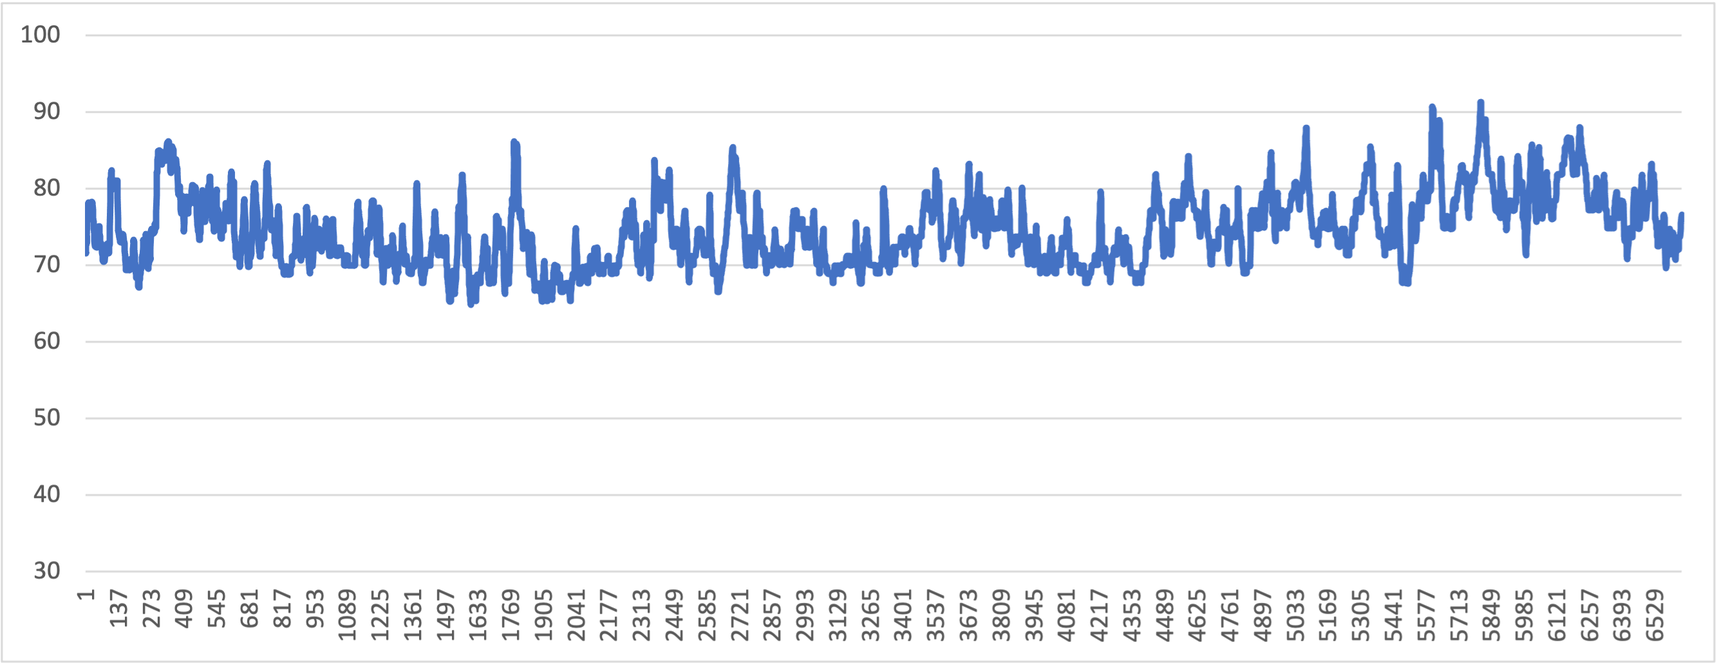
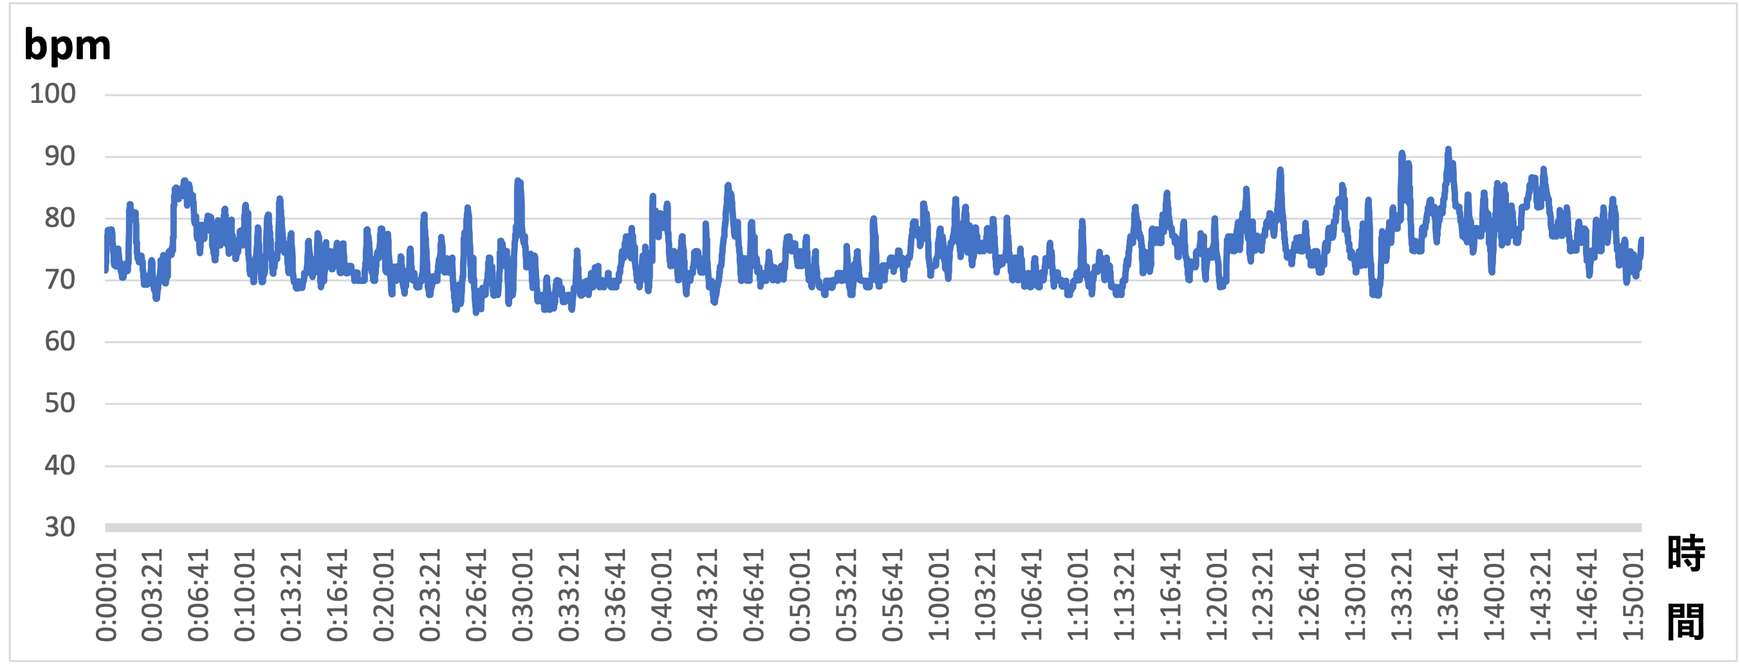
ukai0127

diff --git a/chap3.tex b/chap3.tex
@@ -1,25 +1,80 @@
-\chapter{コンテンツ視聴時に生体データを取得しコンテンツへ重畳提示}
+\chapter{生体データを用いたコンテンツへの重畳提示システム}
 
 \thispagestyle{myheadings}
 
-\section{提案手法}
+　本章では生体データを使いコンテンツに重畳提示する手法について述べる．
+図に研究の全体像を示す.システムの流れは，コンテンツを視聴しているときの生体データを取得する．
+生体データはコンテンツ毎に収集する．集めた生体データから盛り上がっている箇所を推定し抜き出す．
+抜き出したデータを基にコンテンツに重畳提示するといった構成である．
 
-\subsection{システム構成}
-図1に研究の全体像を示す.システムの流れはコンテンツを視聴しているときの生体データを取得し,サーバにアップロードする。生体データはコンテンツ毎に収集する.集めた生体データから盛り上がっている箇所を推定し,抜き出す.抜き出したデータを基にコンテンツに重畳表示するといった構成である.
 \begin{figure}[H]
     \centering
-    \includegraphics[width=10cm]{images/chapter3/zenntaizu.png}
+    \includegraphics[width=15cm]{images/chapter3/allsysytem.png}
     \caption{システム全体図}
 \end{figure}
-生体データとして目の動きに注目したり,額から出る汗の量でコンテンツ視聴時の興奮度を測る方法などが考えられる.収集する生体データによってコンテンツに対し盛り上がり方を色々な目線で計測が可能である.コンテンツへの重畳方法も音を追加して迫力を増したり,画面にエフェクトを表示や振動させたりなどさまざまである,生体データ,重畳方法ともに多岐に渡り用途を決めるのが可能である.
 
-\subsection{本研究のシステム構成}
-本研究で採用したシステムについて述べる.本研究では生体データの収集方法としてスマートウォッチを採用した.理由として近年スマートウォッチは普及しており,誰でも気軽に生体データを取得できるからである.今回スマートウォッチはTicWatchE3を利用した図.生体データとして心拍数を計測する.スマートウォッチを使い気軽に計測ができるためである.スマートウォッチで心拍数を計測するためAndroidStudioで心拍数が収集できるアプリを作成した.コンテンツは映画を視聴するようにした.コロナ禍により自宅で映画を見る機会が増えたためである.また,映画は盛り上がるポイントが明確に出てくると予想したからである.映画にはエフェクトを重畳する.映画画面に直接エフェクトを表示しで迫力や恐怖などを体験できると考えたからである.本研究の流れは映画を見ている時の心拍数をスマートウォッチを使って計測し,取得したデータを心拍数が上昇している箇所のみのデータにする.そのデータを基に映画画面にエフェクトを重畳するという流れになっている.
+　コンテンツ視聴時に生体データを取得する理由として，生体データを用いればそのコンテンツに対し視聴者が興奮している箇所を推定可能だからである．
+本研究ではコンテンツの盛り上がっている箇所を複数人で共有するため，コンテンツのどの箇所で視聴者が盛り上がっていたのかを生体データを使って推定する．
+コンテンツにエフェクトを重畳する目的として生体データを基にコンテンツにエフェクトを重畳することにより，
+より盛り上がるコンテンツを楽しむことが可能になるからである．そのため本研究ではコンテンツ視聴時の生体データを取得し，
+コンテンツにエフェクトを重畳するシステムにした．
+　コンテンツを視聴している時の生体データについて述べる．
+収集する生体データとして目の動きに注目したり，額から出る汗の量でコンテンツ視聴時の興奮度を測る方法などが考えられる．
+収集する生体データによってコンテンツに対し盛り上がり方を色々な目線で計測するのが可能である．
+さまざまな方法で生体データを収集するのができるため，視聴するコンテンツによって適した生体データを取得する．
+コンテンツにはYouTubeやNetflixなどのデジタルコンテンツと本や新聞紙などのアナログコンテンツがある．
+本研究のシステムではYouTubeなどを視聴している時の生体データの収集だけでなく，新聞紙や本を読んでいる時も盛り上がりポイントを計測するのが可能である．
+例として新聞紙を読んでいる時，生体データとして額から出る汗や目の動きなどでは正確に盛り上がるポイントを見つけ出せない．
+新聞紙を読んでいる時は心拍数を使い，面白いと感じる記事を読んでいるときの心拍数を計測するなどコンテンツに合わせた生体データを取得する．
+またTwitterやInstagram，Facebook，TiktokなどのSNSコンテンツを視聴している時にも使用できる．
+　コンテンツへの重畳手法について述べる．コンテンツへの重畳手法としては音を追加したり，画面にエフェクトを表示させる，
+デバイスを振動させるなどさまざまである．映画館のような3Dや4DXは映画館の中の決められた映画のみだが，
+本研究は生体データを収集すれば自宅でも好きなコンテンツに対し映像体験が可能になる．例として本を読んでいる時の重畳手法は，
+徐々に部屋を暗くしたり雑音をはじめの方は流していて盛り上がるポイントが来たら無音にするなど集中しやすい環境に近づけていく．
+その他にも音楽を聴いているときはサビにかけてボリュームを上げビートに合わせてデバイスを振動させライブ会場のようなワクワクが体験できたり，
+スマートフォンで車のレースゲームをしている時には風を送りゲームに没入感を加える．
+
+\section{本研究のシステム構成}
+　本研究で採用したシステムについて述べる．本研究では生体データの収集方法としてスマートウォッチを採用した．
+理由として近年スマートウォッチは普及しており，誰でも気軽に生体データを取得できるからである図．今回スマートウォッチはTicWatchE3を使用した[図]．
+コンテンツは映画を視聴することにした．コロナ禍により自宅で映画を視聴する機会が増えたためである．
+また，映画は盛り上がるポイントが明確に出てくると予想したからである．スマートウォッチを使い映画を視聴している時の生体データとして，心拍数を計測する．
+心拍数を計測する理由として，スマートウォッチを使い気軽に計測ができるためである．
+また映画を視聴している時は心拍数が頻繁に変化し生体データとして適していると考えたからである．
+収集した心拍データは生体データを管理するサーバにアップロードされる．映画には画面に直接エフェクトを重畳する．
+映画画面に直接枠を囲うようなエフェクトを表示することで迫力や恐怖などを体験できると考えたからである．
+本研究の流れは映画を見ている時の心拍数をスマートウォッチを使って計測し，取得した心拍データをスマートウォッチからサーバにアップロード，
+アップロードされた心拍データから心拍数が上昇している箇所のみのデータにする．
+その心拍上昇箇所のみの心拍データを基に映画画面に直接画面を囲うようなエフェクトを重畳するという流れになっている．
+映画を視聴する時にスマートウォッチを腕に取り付け，スマートウォッチを使い心拍数を計測する．
+取得した心拍データはサーバにアップロードされ，心拍数が上昇している箇所だけのデータに抽出処理が行われる．
+映画毎に複数人のデータが一つのエフェクト表示に適したデータへと変換される．そのデータを基に映画画面に直接エフェクトが表示されるシステムである．
+
 \begin{figure}[H]
     \centering
-    \includegraphics[width=10cm]{images/chapter3/tokei.jpg}
+    \includegraphics[width=10cm]{images/chapter3/watch.jpg}
     \caption{利用したスマートウォッチ,TicWatchE3}
 \end{figure}
+
+\begin{figure}[H]
+    \centering
+    \includegraphics[width=10cm]{images/chapter3/watchreserch.png}
+    \caption{スマートウォッチの普及率}
+\end{figure}
+
+\section{心拍データについて}
+
+　本節ではシステムを構成する機能のうち，スマートウォッチを使い心拍データを取得する方法，
+収集した心拍データから心拍数が上昇している箇所の抽出方法について述べる．
+
+\subsection{心拍データの収集方法}
+
+　スマートウォッチを使い心拍数を計測する方法を述べる．本研究では映画を視聴している時の心拍数を計測するため，
+AndroidStudioで心拍数が取得できるアプリを作成した。アプリ画面を図に示す．
+センサ取得ボタンを押すことによって腕につけた時の心拍数を心拍という文字の下に表示できる．
+csv file nameに保存したいファイル名を記入し記録開始ボタンを押すことで心拍数の記録が始まる．
+心拍数を取得中の画面を図に示す．心拍数の計測が終了したらCSV出力のボタンを押し計測を終了する．
+取得した心拍データはCSVファイルとなり生体データを管理するサーバへとアップロードされる．
 
 \begin{figure}[H]
     \centering
@@ -27,25 +82,57 @@
     \caption{心拍数取得画面}
 \end{figure}
 
-\section{心拍データの分析と心拍上昇箇所の抽出処理}
-収集した心拍数のデータを分析した.実際に集めたデータをグラフにしたものを表示する.映画は「キングコング」を視聴した人のデータである.集めたデータを観察したところ,人により心拍数の変動が様々であった.図のように常に心拍数が上昇と下降を繰り返している人や,盛り上がりを見せるシーンでは心拍数が大幅に上昇し,それ以外は上昇と下降を繰り返している人,また盛り上がりを見せるシーンのみ心拍数が上昇しそれ以外は比較的落ち着いている人などがいた.
 \begin{figure}[H]
     \centering
-    \includegraphics[width=10cm]{images/chapter3/gurafu1.png}
+    \includegraphics[width=10cm]{images/chapter3/csv.png}
+    \caption{心拍数取得中画面}
 \end{figure}
+
+\subsection{心拍データの観察}
+
+収集した心拍データを観察する．実際に集めた心拍データの一部をグラフにしたものを表示する図．
+映画は「キングコング　髑髏島の巨神」を視聴した人のデータである．集めたデータを観察したところ，人により心拍数の変動が様々であった．
+図のように盛り上がりを見せるシーンのみ心拍数が上昇しそれ以外は比較的落ち着いている人がいたが，
+図のように常に心拍数が上昇と下降を繰り返しており盛り上がっている箇所が把握できない人や、図のように盛り上がりを見せるシーンでは心拍数が大幅に上昇し、
+それ以外は上昇と下降を繰り返している人もいた．また人によって映画視聴中の平均心拍数にばらつきがあった．
+映画の盛り上がるシーンと心拍数の関係を比較したところ，盛り上がりを見せるシーンで心拍数が上昇している人がいた．
+図と図は数分の差はあったものの盛り上がるシーンで平均の心拍数よりも上昇していた．
+これより人によって差はあるが映画を視聴している時の盛り上がるシーンでは心拍数が上昇することがわかった．
 
 \begin{figure}[H]
     \centering
     \includegraphics[width=10cm]{images/chapter3/gurafu2.png}
+    \caption{キングコングを視聴した時の1人目心拍数のグラフ}
 \end{figure}
 
 \begin{figure}[H]
     \centering
-    \includegraphics[width=10cm]{images/chapter3/gurafu3.png}
-    \caption{キングコングを視聴した時の心拍数のグラフ}
+    \includegraphics[width=10cm]{images/chapter3/gurafu.png}
+    \caption{キングコングを視聴した時の2人目心拍数のグラフ}
 \end{figure}
 
-エフェクト表示に適した形式にするため,心拍上昇箇所の抽出処理方法を述べる.映画の盛り上がりのシーンを抜き出すため,心拍数が上昇している箇所を抽出する.収集した心拍数の CSV データを心拍上昇箇所のみのJSON データにする.抽出処理の方法を図 に示す.スマートウォッチで収集した心拍数のデータはcsvファイルとしてサーバにアップロードされる.サーバからデータ毎に心拍数上昇箇所の抽出を行い,上昇した箇所のみのjsonデータにする.心拍数が上昇しているところを抜き出すため,安静時の心拍数からどれだけ心拍数が上昇したかを抽出する.まず映画を見る前の1分間を安静時の心拍数として平均を出し閾値にする. 次に図のように心拍 数を閾値と比較する.心拍数の上昇具合で表示するエフェクトを変更するため,1 から 3 までのレベル分けをした.平均心拍数よりも心拍数が 16bpm 以上高い時を レベル 3,14bmp 以上をレベル2,12bpm 以上をレベル 1 とする.from to の形式で心拍数が閾値を超えていた 時間を示す.時間は映画が始まってからの経過時間で エフェクトを表示するため相対時間にした.effectlevel で表示するエフェクトを決定する。実際に心拍数上昇箇所の抽出処理をした後のデータを図に示す.エフェクトの表示に適した形式にするため,心拍上昇箇所の抽出処理した JSON データを一つの JSON データにまとめる.これにより一つのコンテンツに一個の JSON データが作られる.このデータを使いエフェクトを映画画面に重畳する.
+\begin{figure}[H]
+    \centering
+    \includegraphics[width=10cm]{images/chapter3/gurafu1.png}
+    \caption{キングコングを視聴した時の3人目心拍数のグラフ}
+\end{figure}
+
+\subsection{心拍数上昇箇所の抽出処理}
+　収集した心拍データを基に，エフェクト表示に適した形式にするため心拍数が上昇している箇所を抽出するための処理を行う．
+収集した心拍数の CSV データをエフェクト表示に適したJSON データにする．
+エフェクト表示用に作成したデスクトップアプリの都合上本研究ではJSONデータに変換する．
+まず，サーバから心拍数のCSVデータを取得し心拍数が上昇している箇所の抽出を行う．心拍数上昇箇所の抽出処理の方法を図 に示す．
+収集した心拍データを観察し，心拍数が上昇している箇所の抜き出し方法を決定した．人により平均の心拍数はさまざまであったため，
+心拍数が上昇している箇所を見つけ出すようまず安静時の心拍数を取得する．安静時の心拍数は，映画を視聴する前の１分間動かない状態で心拍数を計測し取得する．
+その安静時の平均心拍数からどれだけ心拍数が上昇したかを抽出する．これにより心拍数が高い人も低い人も同じ抽出処理が可能になる．
+表に今回作成したモデルの定義を示す．from toの形式で心拍数が閾値を超えていた時間を示す．
+時間は映画が始まってからの経過時間でエフェクト表示するため相対時間にした．今回from toの形式にしたのは，
+エフェクトを映画画面に重畳する際にエフェクト表示する時間を心拍数が閾値を超えていた時間の範囲で表示できるようにするためである．
+effectlevelで表示するエフェクトを決定する．effectlevelは表のように心拍数を閾値と比較する．閾値は収集した心拍データを基に設定した．
+心拍数の上昇具合で表示するエフェクトを変更するため，1から3までのレベル分けをした．
+本研究ではエフェクトを3段階にし心拍数のレベルに応じて表示するエフェクトが変更される．安静時の平均心拍数よりも心拍数が16bpm以上高い時をレベル3，
+14bmp以上をレベル2，12bpm 以上をレベル1とする．実際に心拍数上昇箇所の抽出処理をした後のデータを図に示す．
+
 
 \begin{figure}[H]
     \centering
@@ -55,9 +142,38 @@
 
 \begin{figure}[H]
     \centering
+    \includegraphics[width=10cm]{images/chapter3/propaty.png}
+    \caption{心拍データのモデルの型定義}
+\end{figure}
+
+\begin{figure}[H]
+    \centering
+    \includegraphics[width=10cm]{images/chapter3/effectlevel.png}
+    \caption{閾値の判別}
+\end{figure}
+
+
+\begin{figure}[H]
+    \centering
     \includegraphics[width=10cm]{images/chapter3/level.png}
     \caption{心拍数上昇箇所の抽出処理をした結果}
 \end{figure}
+
+
+　エフェクト表示に適した形式にするため、心拍数上昇箇所の抽出処理したJSONデータを一つのJSONデータにまとめる．
+これにより一つのコンテンツに一個のJSONデータが作られる．このデータを使いエフェクトを映画画面に重畳する.
+
+\begin{figure}[H]
+    \centering
+    \includegraphics[width=10cm]{images/chapter3/system.png}
+    \caption{心拍データの概要図}
+\end{figure}
+
+
+
+
+
+
 
 \section{エフェクト表示}
 \subsection{本研究のシステム構成}

diff --git a/chap5.tex b/chap5.tex
@@ -1,8 +1,36 @@
 \chapter{おわりに}
 
 \section{まとめ}
-今回生体データを用いてコンテンツに重畳し,コンテンツをより盛り上げるシステムを提案した.コンテンツ視聴時の生体データを収集し盛り上がっている箇所を推定,抽出しコンテンツに重畳できるデータに変換する.そのデータをもとにコンテンツへエフェクトなどの重畳をする.本研究では生体データとして心拍数を利用し,コンテンツを映画にした.映画を視聴している時の心拍数を計測し,心拍数が上昇している箇所を抜き出す.抜き出したデータを基にエフェクトを映画画面に重畳する.
-評価実験を通して心拍数上昇箇所の抽出処理における課題点,コンテンツへ重畳するエフェクトの問題点が明らかとなった.心拍数上昇箇所の抽出処理において,心拍数の変動はさまざまであるためそれに対応ができていなかった.改善策として心拍数上昇箇所を抽出するときに安静時の心拍数の設定で対応できると考察した.
+　今回コンテンツ視聴時の生体データを収集し，コンテンツにエフェクトを重畳するシステムを提案した．
+コロナ禍の影響で自宅で過ごす時間が増えコンテンツを視聴する機会が増えた．
+しかし既存のコンテンツでは映画館などといった屋外施設のような映像体験は得られない．
+そこでコンテンツにより臨場感などを味わうことを目的に本システムを構成した．
+作成したシステムはコンテンツ視聴時の生体データを収集し盛り上がっている箇所を推定、抽出しコンテンツに重畳できるデータに変換する．
+そのデータをもとにコンテンツへエフェクトを重畳をする．コンテンツ毎に生体データを収集し，
+それぞれのコンテンツに合ったエフェクトを重畳するのでよりコンテンツを楽しむことが可能になる．
+　本研究ではスマートウォッチを使用し生体データとして心拍数を取得した．またコンテンツを映画にした．
+映画を視聴している時の心拍数を計測し，心拍数が上昇している箇所を抜き出す．抜き出したデータを基にエフェクトを映画画面に重畳する．
+　本システムにおいて収集した心拍データの心拍数上昇箇所の抽出方法が適切だったか，
+重畳するエフェクトは映画に迫力や臨場感を加えれたか評価するため評価実験を行った．評価実験の方法として，
+まずエフェクト重畳前の映画を視聴してもらった．安静にした状態で腕にスマートウォッチを取り付け，
+映画を見る1分前から心拍数の取得を始め映画が終わるまでを計測した．環境は自宅でも気軽に臨場感が味わえることが目的なので，
+普段映画を自宅で視聴する時と同じ環境で視聴した．次にエフェクトを重畳した映画も視聴してもらい，視聴後のアンケートも行った．
+　評価実験を通して心拍数上昇箇所の抽出処理における課題点，コンテンツへ重畳するエフェクトの問題点が明らかとなった．
+心拍数上昇箇所の抽出処理において，心拍数の変動は人によってさまざまであるためそれに対応ができていなかった．
+心拍数上昇箇所を抽出するときに設定した安静時の心拍数が原因だと考察できる．
 
 \section{今後の課題}
-今後の課題を心拍数上昇箇所の抽出処理,コンテンツへのエフェクト表示の双方において述べる.まずデータ処理の課題として挙げられるのは,心拍数上昇箇所を抽出するときに体を動かしただけやくしゃみをしたなどの映画の盛り上がりとは関係ないところでも心拍数が上昇しており,そのノイズを除去するのができていなかった.また人によって心拍数の変動が様々であるため全ての人に対応できる処理ではなかった.まず前者に対応するため心拍数上昇箇所の抽出処理をするときに最初の一分間を安静時の心拍数としたが,安静時の心拍数を常に更新を行い,解決すると考える.心拍数が盛り上がる前後では心拍数は比較的落ちつていたため,この落ち着いている場所で安静時の心拍数の平均を取る。この平均を使い閾値を設定し,さまざまな心拍数のパターンに対応する。後者の問題として,心拍数上昇箇所の抽出処理した後のデータをエフェクトを重畳するためのデータにするため一つのデータに足していくだけであった.そこを複数人が同じ箇所で反応していたところのみ最後の一つのデータに追加し,ノイズを除去したりするのを対策可能である.少ない人数間での比較だったため将来的にはより多くのデータを集める必要がある.
+　今後の課題を心拍数上昇箇所の抽出処理、コンテンツへのエフェクト表示の双方において述べる．
+まず心拍データ処理の課題として挙げられるのは，
+心拍数上昇箇所を抽出するときに体を動かしただけやくしゃみをしたなどの映画の盛り上がりとは関係ないところでも心拍数が上昇しており，
+そのノイズを除去するのができていなかった．また人によって心拍数の変動が様々であるため全ての人に対応できる処理方法ではなかった．
+まず前者に対応するため心拍数上昇箇所の抽出処理をするときに最初の１分間を安静時の心拍数としたが，安静時の心拍数を常に更新することで解決すると考える．
+心拍数が盛り上がる前後では心拍数は比較的落ちつていたため，この落ち着いている場所で安静時の心拍数の平均を取る．
+この平均を使い閾値を設定し，さまざまな心拍数のパターンに対応する．後者の問題として，
+心拍数上昇箇所の抽出処理した後のデータをエフェクトを重畳するのに適したデータにするため1つのJSONデータに足していくだけであった．
+複数人が同じ箇所で反応していたところのみ最後の1つのデータに追加していくことでノイズを除去したり対策可能である．
+少ない人数間での比較だったため将来的にはより多くのデータを集める必要がある．
+また，本研究では生体データとして心拍数を利用したが今後は額から出る汗や目の動きなどにも注目し，
+よりコンテンツ視聴時の感情を取得する必要がある．本研究ではリアルタイムでのデータ処理は行わなかった．
+今後はコンテンツにリアルタイムで視聴している時の生体データを取得し，コンテンツへエフェクトを重畳するシステムの開発も考えられる．
+評価実験を行った環境は本研究では考慮しなかったが，コンテンツ視聴時の周りの環境も含めた評価実験が必要である．

diff --git a/chap4.tex b/chap4.tex
@@ -1,10 +1,50 @@
 \thispagestyle{myheadings}
 \chapter{評価実験}
 
-収集した心拍データの処理が適切なのか,また表示 したエフェクトが視聴者にはどのように感じるのかを 評価するため実験を行う.データ収集方法として安静 にした状態で腕にスマートウォッチを取り付け、映画 を見る1分前から心拍数の取得を始め映像が終わるまでを計測した.エフェクトを重畳した映画の視聴後のアンケートも行った. 
+　収集した心拍データの心拍数上昇箇所の抽出処理が適切なのか，また表示したエフェクトが視聴者にはどのように感じるのかを評価するため実験を行う．
+まずエフェクト重畳前の映画を視聴してもらった．安静にした状態で腕にスマートウォッチを取り付け，
+映画を見る1分前から心拍数の取得を始め映画が終わるまでを計測した．環境は自宅でも気軽に臨場感が味わえることが目的なので，
+普段映画を自宅で視聴する時と同じ環境で視聴した．次にエフェクトを重畳した映画も視聴してもらい，視聴後のアンケートも行った．
 
-\section{生体データの処理方法}
-データを処理する際の閾値や設定が正確に処理でき ていたか評価する.3 本の映画に対し各 3 人のデータを 収集した.映画は 007/ノー・タイム・トゥ・ダイ、キングコング/髑髏島の巨神，嘘喰いの 3 本にした.集めたデータを処理した結果、盛り上がりのシーンで心拍 数が上昇しておりその部分が抜き出せていた.エフェ クトを表示する時間 from から to も閾値を超えた瞬間から下がるまでを記録できていた.しかし人によっては心拍数が常に一定の人や変化が 激しい人など様々なためその全てに対応ができていな かった.原因として始めの一分間を安静時の心拍数と して決定するためその後の変化に対応できないからだと推測する.また,処理したそれぞれのデータを一つ のデータに追加していくだけなので、姿勢を変えたなどのノイズもエフェクト表示に使われてしまった.対 策として様々な心拍数の変化に対応するため,平均を 常に更新しそれに応じて閾値も変動させ,データを一 つにまとめる際には複数人が反応を示している箇所だけを抜き出しまとめれば解決すると考える. 
+\section{心拍データの心拍数上昇箇所の抽出処理について}
+　本節では心拍データの心拍数上昇箇所の抽出処理が適切に処理できていたか評価し考察する．
+
+\subsection{心拍数上昇箇所の抽出方法についての評価}
+　データを処理する際の閾値や設定が正確に処理できていたか評価する．
+実験として3 本の映画に対し各3人のデータを収集した．映画は 007/ノー・タイム・トゥ・ダイ，キングコング/髑髏島の巨神，嘘喰いの 3 本にした．
+映画は心拍数の変化が大きくなると仮定したアクション映画にした．集めたデータを処理した結果，
+盛り上がりのシーンで心拍数が上昇している部分が抜き出せているものもあった．
+また，エフェクトを表示する時間 from から to も閾値を超えた瞬間から下がるまでを記録できていた．
+しかし人によっては心拍数が常に一定の人や変化が 激しい人などさまざまなためその全てに対応ができていなかった．
+人によっては上昇箇所がたくさんあり，盛り上がりのシーン以外でも反応してしまった．
+また心拍数の変化が少ない人では全く心拍数の上昇箇所を抜き出すことができなかった．
+　心拍数が上昇している箇所をうまく抜き出せていない映画では，
+抽出処理した心拍データを1つのJSONデータにまとめる際に混ざってしまいうまく抜き出せている心拍データだけを反映するのができていなかった．
+
+\begin{figure}[H]
+    \centering
+    \includegraphics[width=10cm]{images/chapter4/miss.png}
+    \caption{心拍数上昇箇所の抽出処理をした結果}
+\end{figure}
+
+
+\subsection{心拍数上昇箇所の抽出方法についての考察}
+　心拍数が上昇している箇所を適切に抜き出せていない原因として，
+始めの一分間を安静時の心拍数として決定するためその後の変化に対応できないからだと推測する．
+はじめの１分間を安静時の心拍数として決定すると，
+映画が進むにつれ徐々に心拍数が上がっていく人や逆に下がっていく人など閾値の設定が反映されなくなってしまったからだと考える．
+また図のように映画を見る前の状態では落ち着いた心拍数で安定しているが，
+映画を見始めると心拍数が安定していても興奮しているため平均心拍数が安静時よりも高くなっているからである．
+　最終的に一つのJSONデータにまとめる際に盛り上がりのシーン以外も使いされてしまう課題について，
+処理したそれぞれの心拍データを一つのJSONデータに追加していくだけなので，
+姿勢を変えたなどのノイズもエフェクト表示に使われてしまった．対策として様々な心拍数の変化に対応するため，
+平均を常に更新しそれに応じて閾値も変動させ，データを一つにまとめる際には複数人が反応を示している箇所だけを抜き出しまとめれば解決すると考える． 
+
+\begin{figure}[H]
+    \centering
+    \includegraphics[width=10cm]{images/chapter4/bpmave.png}
+    \caption{心拍数上昇箇所の抽出処理をした結果}
+\end{figure}
 
 \section{重畳提示の手法}
 エフェクト選択後の視聴画面に対し10人のデータを収集し,評価方法としてエフェクト制作の目的を5段階評価でどれほど感じたかで集めた.

diff --git a/chap2.tex b/chap2.tex
@@ -1,13 +1,15 @@
 \thispagestyle{myheadings}
 \chapter{関連研究}
+　本章では本研究に関連するコンテンツについての研究や生体データを用いた研究，重畳提示手法の研究の３つのテーマについて紹介する．本研究と比較し関連性や新規性を述べる．
 
-
+\section{コンテンツにおける研究}
+　コンテンツにはたくさんの種類がある．アナログコンテンツである本や新聞紙などがあるが，本や新聞紙など紙で読む方が記憶に残る研究がある．しかし，スマートフォンの普及で紙で読む機会が減った．本研究のシステムを使えば，紙で本や新聞紙を読む機会も増えると考える．
 \section{生体データを用いた研究}
-
+　生体データを使った研究はいくつかある．その中で生体データを使い人の感情をどれだけ正確に抜き出せるのか，また生体データを基にした研究について本研究における生体データの取扱について比較し述べる．
 \subsection{生体情報で何がわかるかの研究}
-生体データを取得したときに得られる情報について述べる.我々の研究では生体データを用いてコンテンツに重畳するため生体データでコンテンツに対して視聴者の反応を取る必要がある.生体データを使い人の感情を読み取る研究がある[1].これらにより生体データを使い感情が読み取れる有効性が示されていた。また、生体データを用いて被験者に学習支援をする研究もある[3][6].生体データを使用し正確に支援ができるからである.そのため本研究では生体データを使用した.
-\subsection{生体情報を何かに使った研究}
-
+　生体データを取得したときに得られる情報について述べる.我々の研究では生体データを用いてコンテンツに重畳するため生体データでコンテンツに対して視聴者の反応を取る必要がある.生体データを使い人の感情を読み取る研究がある[1].これらにより生体データを使い感情が読み取れる有効性が示されていた。また、生体データを用いて被験者に学習支援をする研究もある[3][6].生体データを使用し正確に支援ができるからである.そのため本研究では生体データを使用した.
+\subsection{生体情報を基にした研究}
+　また，生体データを用いて被験者に学習支援をする研究もある[][]．生体データを使うことでより正確に支援ができるからである．そのため本研究では生体データを使うこととした．
 
 \section{重畳提示についての研究}
 コンテンツにエフェクトを重畳して面白さを増幅する研究はこれまで多くなされてきた。視線検出装置を用いてユーザがディスプレイ上の画像において任意の点に注目した際に,奥行きにフォーカスされた画像を映像に随時反映し奥行き感を強化する手法が提案されている[7][8].しかし、提案システムはあらかじめ用意した最大 256枚からなる画像を利用しており,手軽にコンテンツの視聴体験を拡張,増幅できるとは言い難く,また視線位置に応じて仮想世界のぼかし具合を変化させ,面白さや奥行き感を増幅している[9].そのため本研究では重畳提示手法を使用した.
